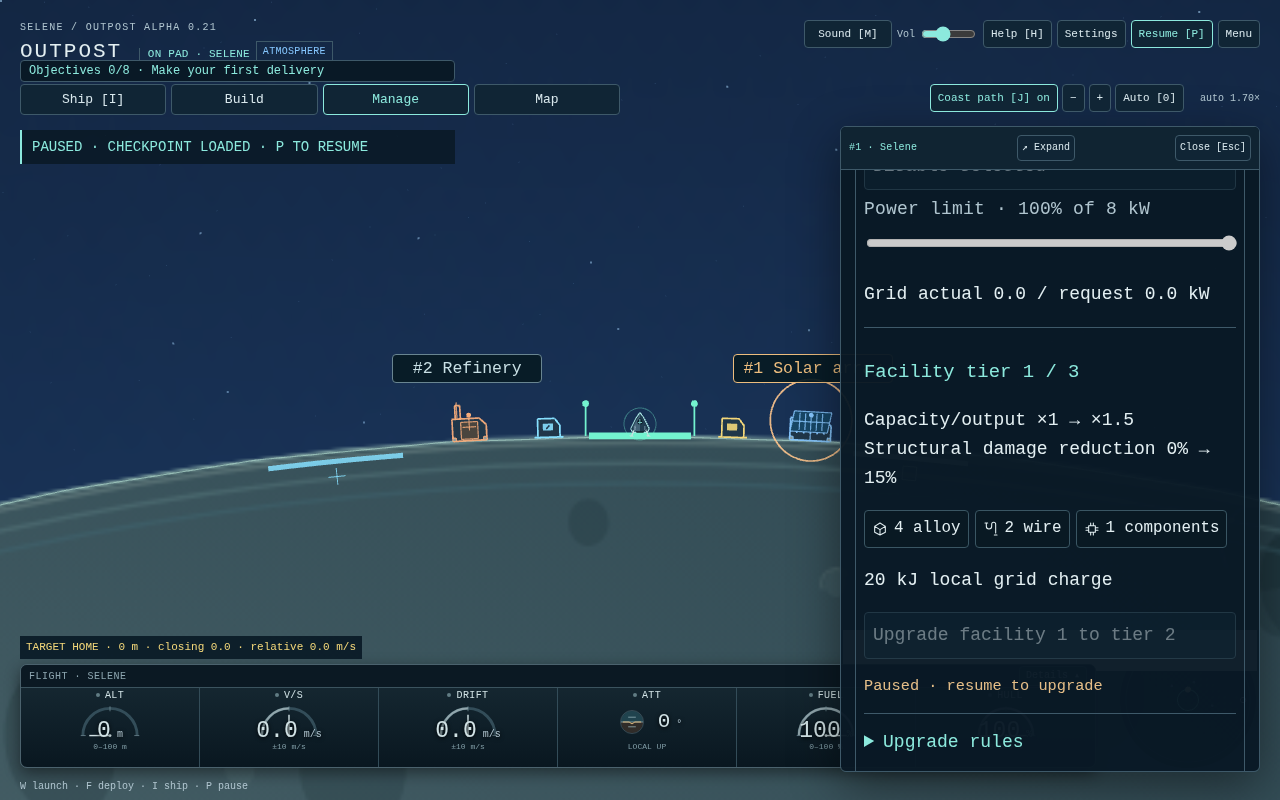
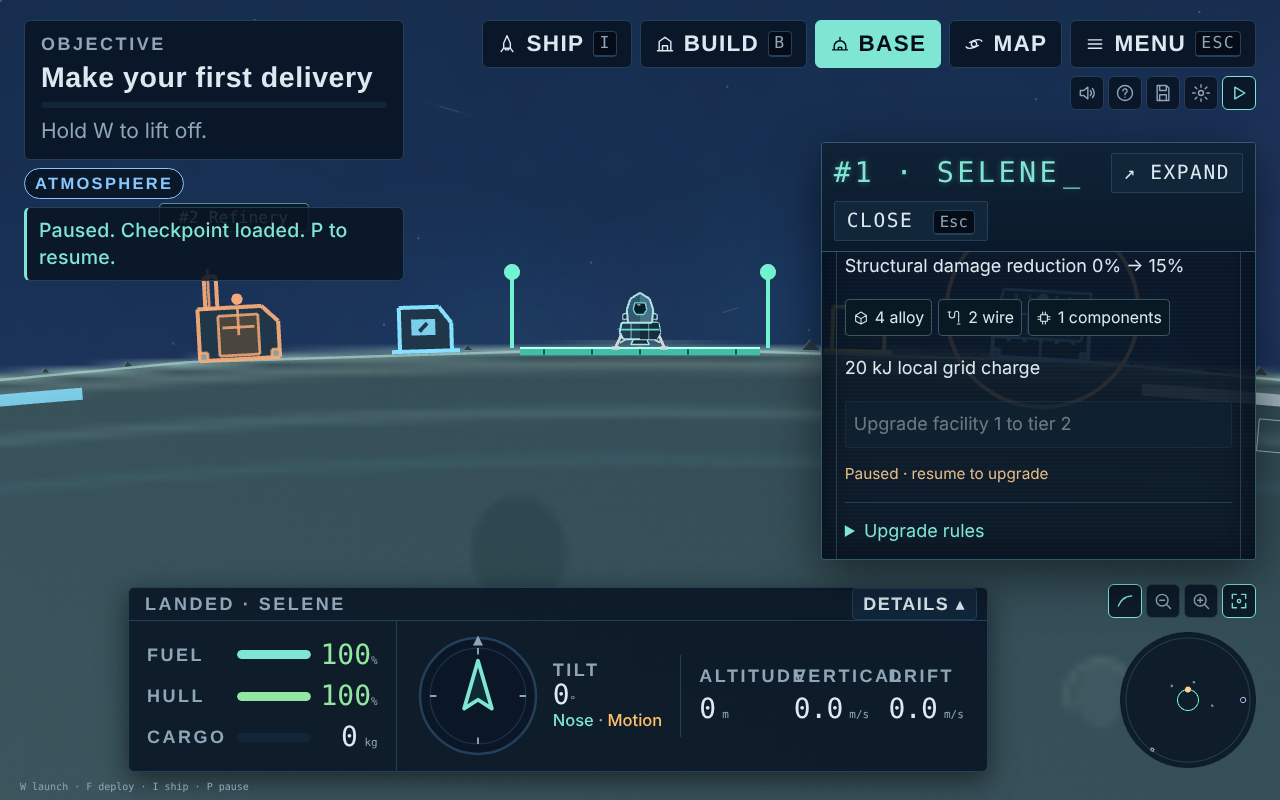
Specs follow the Base sections; narrow windows keep a short title; decisions logged
Claude-Session: https://claude.ai/code/session_01Me37Jarn6EfXptJTunjMTS

diff --git a/tests/browser/workspace.spec.ts b/tests/browser/workspace.spec.ts
@@ -7,7 +7,7 @@ import {TECH_IDS,TECHNOLOGIES,UPGRADE_IDS,UPGRADES,PART_SLOTS} from '../../src/s
 const advance=async(p:Page,ms:number)=>{for(let t=0;t<ms;t+=100)await p.clock.fastForward(Math.min(100,ms-t));};
 
 test('shows a connected tree and selected-only details, supports native keyboard inspection and leaves paused resources untouched',async({page})=>{
- test.setTimeout(90000);const w=createWorld();w.asteroids=[];const initial=encodeCheckpoint(w);await page.addInitScript(text=>localStorage.setItem('outpost.checkpoint.v1',text),initial);await page.goto('/');await page.getByRole('button',{name:'Base',exact:true}).click();const dock=page.locator('#operations-dock');await expect(dock).toHaveAttribute('data-expanded','true');const box=await dock.boundingBox();expect(box!.width).toBeGreaterThan(1000);await page.getByRole('button',{name:'Research',exact:true}).click();await expect(page.locator('.tech-node')).toHaveCount(TECH_IDS.length);await expect(page.locator('.tree-connections path')).toHaveCount(TECH_IDS.reduce((n,id)=>n+TECHNOLOGIES[id].requires.length,0));await expect(page.locator('[data-tech-detail]')).toHaveCount(1);await expect(page.locator('.equipment-panel')).toBeHidden();
+ test.setTimeout(90000);const w=createWorld();w.asteroids=[];const initial=encodeCheckpoint(w);await page.addInitScript(text=>localStorage.setItem('outpost.checkpoint.v1',text),initial);await page.goto('/');await page.getByRole('button',{name:'Base',exact:true}).click();const dock=page.locator('#operations-dock');await expect(dock).toHaveAttribute('data-expanded','true');const box=await dock.boundingBox();expect(box!.width).toBeGreaterThan(1000);await page.locator('button[data-page="research"]').click();await expect(page.locator('.tech-node')).toHaveCount(TECH_IDS.length);await expect(page.locator('.tree-connections path')).toHaveCount(TECH_IDS.reduce((n,id)=>n+TECHNOLOGIES[id].requires.length,0));await expect(page.locator('[data-tech-detail]')).toHaveCount(1);await expect(page.locator('.equipment-panel')).toBeHidden();
  const ion=page.getByRole('button',{name:'Inspect Ion propulsion',exact:true});await ion.focus();await page.keyboard.press('Enter');await expect(page.locator('[data-tech-detail="ionics"]')).toBeVisible();await expect(page.getByRole('button',{name:'Research Ion propulsion',exact:true})).toBeDisabled();await expect(ion).toBeFocused();await page.keyboard.press('ArrowRight');await expect(page.locator('[data-tech="lightweight"]')).toBeFocused();await page.keyboard.press('Enter');await expect(page.locator('[data-tech-detail="lightweight"]')).toBeVisible();
  await page.getByRole('button',{name:'Lightweight hold',exact:true}).click();await expect(page.locator('#command-console')).toHaveAttribute('data-page','equipment');await expect(page.locator('[data-part-detail="lightHold"]')).toBeVisible();await expect(page.getByRole('button',{name:'Build Lightweight hold',exact:true})).toBeDisabled();await page.keyboard.press('k');await expect(page.locator('.status')).toContainText('Game saved');const saved=await page.evaluate(()=>JSON.parse(localStorage.getItem('outpost.checkpoint.v1')!).world);expect(saved.colony.products).toEqual(w.colony.products);expect(saved.ship.equipment).toEqual([]);expect(saved.system.time).toBe(0);
  await page.getByRole('button',{name:'Open settings',exact:true}).click();await page.getByText('Keyboard bindings · click a key to change it',{exact:true}).click();await page.getByRole('button',{name:'Change Pause binding',exact:true}).click();await page.keyboard.press('s');await page.getByRole('button',{name:'Return to game',exact:true}).click();await page.locator('[data-part-focus="lightHold"]').focus();await page.keyboard.press('s');await expect(page.locator('#hud')).toHaveAttribute('data-state','landed');await page.keyboard.press('s');await expect(page.locator('#hud')).toHaveAttribute('data-state','paused');
@@ -16,13 +16,13 @@ test('shows a connected tree and selected-only details, supports native keyboard
 
 test('earns the new ion branch with paid lab work and fits its real drive from the selected inspector',async({page})=>{
  test.setTimeout(120000);const w=createWorld();w.asteroids=[];w.exploration.sites=[];const held=new Set<string>(['ionics','lightweight','industrial','reactor']);for(let grew=true;grew;){grew=false;for(const id of TECH_IDS)if(!held.has(id)&&TECHNOLOGIES[id].requires.some(r=>held.has(r))){held.add(id);grew=true;}}w.colony.research.completed=TECH_IDS.filter(id=>!held.has(id));w.ship.equipment=['engine'];w.ship.hull=60;w.colony.products.alloy=w.colony.products.wire=w.colony.products.components=80;w.colony.energy=20;w.colony.buildings=[completedBuilding(1,'solar',.1,w),completedBuilding(2,'researchLab',.15,w)];w.colony.nextId=3;
- await page.addInitScript(text=>{if(!sessionStorage.getItem('ion-seeded')){localStorage.setItem('outpost.checkpoint.v1',text);sessionStorage.setItem('ion-seeded','1');}},encodeCheckpoint(w));await page.clock.install({time:new Date('2030-01-01')});await page.clock.pauseAt(new Date('2030-01-01T00:00:01Z'));await page.goto('/');await advance(page,500);await page.getByRole('button',{name:'Base',exact:true}).click({force:true});await advance(page,100);await page.getByRole('button',{name:'Research',exact:true}).click({force:true});await page.getByRole('button',{name:'Inspect Ion propulsion',exact:true}).focus();await page.keyboard.press('Enter');await advance(page,100);await expect(page.getByRole('button',{name:'Research Ion propulsion',exact:true})).toBeDisabled();await page.keyboard.press('p');await advance(page,100);await page.getByRole('button',{name:'Research Ion propulsion',exact:true}).focus();await page.keyboard.press('Space');await advance(page,56000);await expect(page.locator('[data-tech="ionics"]')).toHaveAttribute('data-state','complete');await page.getByRole('button',{name:'Ion cruise drive',exact:true}).focus();await page.keyboard.press('Space');await advance(page,100);await expect(page.locator('.part-comparison')).toContainText('0.4 kg/s');await page.getByRole('button',{name:'Replace with Ion cruise drive',exact:true}).focus();await page.keyboard.press('Space');await advance(page,100);await page.keyboard.press('p');await advance(page,100);await page.keyboard.press('k');await advance(page,100);const saved=await page.evaluate(()=>JSON.parse(localStorage.getItem('outpost.checkpoint.v1')!).world);expect(saved.ship.equipment).toEqual(['ionDrive']);expect(saved.ship.fuel).toBe(240);expect(saved.ship.hull).toBe(60);expect(saved.colony.products.alloy).toBeCloseTo(53.4);expect(saved.colony.research.energyUsed).toBeCloseTo(220);
+ await page.addInitScript(text=>{if(!sessionStorage.getItem('ion-seeded')){localStorage.setItem('outpost.checkpoint.v1',text);sessionStorage.setItem('ion-seeded','1');}},encodeCheckpoint(w));await page.clock.install({time:new Date('2030-01-01')});await page.clock.pauseAt(new Date('2030-01-01T00:00:01Z'));await page.goto('/');await advance(page,500);await page.getByRole('button',{name:'Base',exact:true}).click({force:true});await advance(page,100);await page.locator('button[data-page="research"]').click({force:true});await page.getByRole('button',{name:'Inspect Ion propulsion',exact:true}).focus();await page.keyboard.press('Enter');await advance(page,100);await expect(page.getByRole('button',{name:'Research Ion propulsion',exact:true})).toBeDisabled();await page.keyboard.press('p');await advance(page,100);await page.getByRole('button',{name:'Research Ion propulsion',exact:true}).focus();await page.keyboard.press('Space');await advance(page,56000);await expect(page.locator('[data-tech="ionics"]')).toHaveAttribute('data-state','complete');await page.getByRole('button',{name:'Ion cruise drive',exact:true}).focus();await page.keyboard.press('Space');await advance(page,100);await expect(page.locator('.part-comparison')).toContainText('0.4 kg/s');await page.getByRole('button',{name:'Replace with Ion cruise drive',exact:true}).focus();await page.keyboard.press('Space');await advance(page,100);await page.keyboard.press('p');await advance(page,100);await page.keyboard.press('k');await advance(page,100);const saved=await page.evaluate(()=>JSON.parse(localStorage.getItem('outpost.checkpoint.v1')!).world);expect(saved.ship.equipment).toEqual(['ionDrive']);expect(saved.ship.fuel).toBe(240);expect(saved.ship.hull).toBe(60);expect(saved.colony.products.alloy).toBeCloseTo(53.4);expect(saved.colony.research.energyUsed).toBeCloseTo(220);
 });
 
 test('keeps tree navigation and selected fitting comparisons usable at enlarged desktop sizes',async({page})=>{
  test.setTimeout(120000);const w=createWorld();w.asteroids=[];await page.addInitScript(text=>localStorage.setItem('outpost.checkpoint.v1',text),encodeCheckpoint(w));
  for(const [width,height]of [[900,600],[1280,800],[1920,1080]]){
-  await page.setViewportSize({width,height});await page.goto('/');await page.getByRole('button',{name:'Open settings',exact:true}).click();await page.getByLabel('Text size',{exact:true}).selectOption('1.5');await page.getByRole('button',{name:'Return to game',exact:true}).click();await page.getByRole('button',{name:'Base',exact:true}).click();await page.getByRole('button',{name:'Research',exact:true}).click();await page.getByRole('button',{name:'Inspect Ion propulsion',exact:true}).click();await expect(page.locator('[data-tech-detail="ionics"]')).toBeVisible();expect(await page.locator('#operations-dock').evaluate(e=>e.scrollWidth>e.clientWidth+1)).toBe(false);await page.locator('#operations-dock').evaluate(e=>e.scrollTop=0);await expect(page.getByRole('button',{name:'Research Ion propulsion',exact:true})).toBeInViewport({ratio:1});await page.screenshot({path:`docs/screenshots/workspace-research-${width}.png`});
+  await page.setViewportSize({width,height});await page.goto('/');await page.getByRole('button',{name:'Open settings',exact:true}).click();await page.getByLabel('Text size',{exact:true}).selectOption('1.5');await page.getByRole('button',{name:'Return to game',exact:true}).click();await page.getByRole('button',{name:'Base',exact:true}).click();await page.locator('button[data-page="research"]').click();await page.getByRole('button',{name:'Inspect Ion propulsion',exact:true}).click();await expect(page.locator('[data-tech-detail="ionics"]')).toBeVisible();expect(await page.locator('#operations-dock').evaluate(e=>e.scrollWidth>e.clientWidth+1)).toBe(false);await page.locator('#operations-dock').evaluate(e=>e.scrollTop=0);await expect(page.getByRole('button',{name:'Research Ion propulsion',exact:true})).toBeInViewport({ratio:1});await page.screenshot({path:`docs/screenshots/workspace-research-${width}.png`});
   await page.getByRole('button',{name:'Ship fitting',exact:true}).click();await page.locator('[data-part-slot="hold"]').click();await page.locator('[data-part-focus="lightHold"]').click();expect(await page.locator('#operations-dock').evaluate(e=>e.scrollWidth>e.clientWidth+1)).toBe(false);await page.locator('#operations-dock').evaluate(e=>e.scrollTop=0);await expect(page.getByRole('button',{name:'Build Lightweight hold',exact:true})).toBeInViewport({ratio:1});const card=await page.locator('.part-inspector').boundingBox(),footer=await page.locator('.part-inspector .inspector-actions').boundingBox();expect(footer!.x).toBeGreaterThanOrEqual(card!.x);expect(footer!.x+footer!.width).toBeLessThanOrEqual(card!.x+card!.width+1);expect(footer!.y+footer!.height).toBeLessThanOrEqual(card!.y+card!.height+1);await page.screenshot({path:`docs/screenshots/workspace-fitting-${width}.png`});
  }
 });

diff --git a/tests/browser/automation.spec.ts b/tests/browser/automation.spec.ts
@@ -12,7 +12,7 @@ async function seed(page:Page,w:ReturnType<typeof createWorld>){await page.addIn
 
 test('researches and fabricates the paid landing computer, flies a manual approach and completes an ordinary automatic touchdown',async({page})=>{
  test.setTimeout(150000);const w=createWorld();w.asteroids=[];w.exploration.sites=[];w.colony.research.completed=['materials','propulsion'];w.colony.products.alloy=w.colony.products.wire=w.colony.products.components=80;w.colony.buildings=[completedBuilding(1,'solar',.1,w),completedBuilding(2,'researchLab',.2,w)];w.colony.nextId=3;await seed(page,w);
- await page.getByRole('button',{name:'Base',exact:true}).click({force:true});await advance(page,100);await page.getByRole('button',{name:'Research',exact:true}).click({force:true});await advance(page,100);await activate(page,'[data-tech="flightControl"]');await expect(page.getByRole('button',{name:'Research Flight control',exact:true})).toBeDisabled();await tap(page,'p');await activate(page,'[data-research-start="flightControl"]');await advance(page,31000);await expect(page.locator('[data-tech="flightControl"]')).toHaveAttribute('data-state','complete');await activate(page,'[data-unlock-part="landingComputer"]');await activate(page,'[data-equipment="landingComputer"]');await tap(page,'p');await tap(page,'k');const fitted=await page.evaluate(()=>JSON.parse(localStorage.getItem('outpost.checkpoint.v1')!).world);expect(fitted.ship.equipment).toEqual(['landingComputer']);expect(fitted.colony.products).toMatchObject({alloy:67,wire:68,components:75});expect(fitted.colony.research.energyUsed).toBeCloseTo(120);expect(fitted.ship.fuel).toBe(240);
+ await page.getByRole('button',{name:'Base',exact:true}).click({force:true});await advance(page,100);await page.locator('button[data-page="research"]').click({force:true});await advance(page,100);await activate(page,'[data-tech="flightControl"]');await expect(page.getByRole('button',{name:'Research Flight control',exact:true})).toBeDisabled();await tap(page,'p');await activate(page,'[data-research-start="flightControl"]');await advance(page,31000);await expect(page.locator('[data-tech="flightControl"]')).toHaveAttribute('data-state','complete');await activate(page,'[data-unlock-part="landingComputer"]');await activate(page,'[data-equipment="landingComputer"]');await tap(page,'p');await tap(page,'k');const fitted=await page.evaluate(()=>JSON.parse(localStorage.getItem('outpost.checkpoint.v1')!).world);expect(fitted.ship.equipment).toEqual(['landingComputer']);expect(fitted.colony.products).toMatchObject({alloy:67,wire:68,components:75});expect(fitted.colony.research.energyUsed).toBeCloseTo(120);expect(fitted.ship.fuel).toBe(240);
  await tap(page,'Escape');await tap(page,'p');await page.keyboard.down('w');await advance(page,4000);await page.keyboard.up('w');await advance(page,100);await tap(page,'i');await page.locator('[data-panel="autopilot"]').click({force:true});await advance(page,100);await expect(page.locator('[data-autopilot="home"]')).toBeDisabled();await expect(page.locator('[data-autopilot="navigate"]')).toBeDisabled();await expect(page.locator('[data-autopilot="land"]')).toBeEnabled();await activate(page,'[data-autopilot="land"]');await expect(page.locator('#operations-dock')).toBeHidden();await expect(page.locator('.autopilot-disengage')).toBeVisible();await page.screenshot({path:'docs/screenshots/autopilot-landing.png'});await advance(page,40000);await expect(page.locator('#hud')).toHaveAttribute('data-state','landed');await expect(page.locator('.autopilot-disengage')).toBeHidden();await tap(page,'p');await tap(page,'k');const landed=await page.evaluate(()=>JSON.parse(localStorage.getItem('outpost.checkpoint.v1')!).world);expect(landed.autopilot.status).toBe('Touchdown confirmed');expect(landed.ship.hull).toBe(100);expect(landed.ship.fuel).toBeLessThan(240);expect(landed.autopilot.energyUsed).toBeGreaterThan(0);
 });
 

diff --git a/tests/browser/progression.spec.ts b/tests/browser/progression.spec.ts
@@ -11,12 +11,12 @@ test('builds a powered lab, earns research with real work and fabricates cargo e
   await page.keyboard.press('f'); await page.keyboard.down('d'); await expect.poll(async () => Number(await hud.getAttribute('data-surface-angle')) * WORLD.radius, { timeout: 12000, intervals: [100] }).toBeGreaterThan(96);
   await page.keyboard.up('d'); await page.waitForTimeout(450); await page.keyboard.press('b'); await page.keyboard.press('Enter'); await expect(hud).toHaveAttribute('data-buildings', '1');
   await page.keyboard.press('t'); await page.getByRole('navigation',{name:'Building groups',exact:true}).getByRole('button',{name:'Industry & research',exact:true}).click(); await page.locator('[data-select="researchLab"]').click(); await page.keyboard.press('Enter'); await expect(hud).toHaveAttribute('data-buildings', '2'); await page.keyboard.press('b');
-  await page.getByRole('button', { name:'Base', exact: true }).click(); await page.getByRole('button',{name:'Research',exact:true}).click();
+  await page.getByRole('button', { name:'Base', exact: true }).click(); await page.locator('button[data-page="research"]').click();
   const start = page.getByRole('button', { name: 'Research Applied materials', exact: true }); await start.focus(); await page.keyboard.press('Space'); await expect(hud).toHaveAttribute('data-grounded', 'true');
   const progress = console.locator('[data-project="materials"] progress'); await expect.poll(async () => Number(await progress.getAttribute('value')), { timeout: 15000 }).toBeGreaterThan(2);
   await page.keyboard.press('p'); await page.keyboard.press('k'); const save = await page.evaluate(() => JSON.parse(localStorage.getItem('outpost.checkpoint.v1')!));
   expect(save.version).toBe(34); expect(save.world.colony.products.alloy).toBe(14); expect(save.world.colony.research.queue[0].progress).toBeGreaterThan(2); expect(save.world.colony.research.completed).toEqual([]);
-  await page.reload(); await expect(hud).toHaveAttribute('data-state', 'paused'); await page.getByRole('button', { name:'Base', exact: true }).click(); await page.getByRole('button',{name:'Research',exact:true}).click();
+  await page.reload(); await expect(hud).toHaveAttribute('data-state', 'paused'); await page.getByRole('button', { name:'Base', exact: true }).click(); await page.locator('button[data-page="research"]').click();
   await page.keyboard.press('p');await expect(console.locator('[data-project="materials"]')).toHaveCount(0,{timeout:45000});await page.getByLabel('Research view',{exact:true}).selectOption('complete');await expect(console.locator('[data-tech="materials"]')).toHaveAttribute('data-state','complete');
   await expect(console.locator('[data-project="materials"]')).toHaveCount(0); await page.keyboard.press('Escape');
   await page.keyboard.down('a'); await expect.poll(async () => Number(await hud.getAttribute('data-surface-angle')) * WORLD.radius, { timeout: 15000, intervals: [100] }).toBeLessThan(10);

diff --git a/tests/browser/signal.spec.ts b/tests/browser/signal.spec.ts
@@ -47,6 +47,7 @@ test('the beacon can be launched from Base and shows as listening on the Map', a
   await open(page, encodeCheckpoint(staged(false)));
   await page.keyboard.press('p');
   await page.getByRole('button', { name: 'Base', exact: true }).click();
+  await page.locator('[data-base-nav="expedition"]').click();
   await page.locator('[data-beacon]').click();
   await expect(page.locator('[data-signal="waiting"]')).toContainText('Listening');
   await page.keyboard.press('Escape');
@@ -63,6 +64,7 @@ test('when the echo comes back Base and the Map name the far system', async ({ p
   await page.keyboard.press('p');
   await expect(page.locator('.status')).toContainText(/signal came back/i, { timeout: 15000 });
   await page.getByRole('button', { name: 'Base', exact: true }).click();
+  await page.locator('[data-base-nav="expedition"]').click();
   await expect(page.locator('[data-echo]')).toContainText('light-hours');
   await page.screenshot({ path: '/tmp/claude-0/-home-user-outpost-game/69b8c470-1738-5ca3-a382-1afb3ca6b07d/scratchpad/shots/signal-base.png' });
   await page.keyboard.press('Escape');
@@ -79,6 +81,7 @@ test('once the echo is in, an expedition can be packed and sent from Base', asyn
   await open(page, encodeCheckpoint(staged(false, true)));
   await page.keyboard.press('p');
   await page.getByRole('button', { name: 'Base', exact: true }).click();
+  await page.locator('[data-base-nav="expedition"]').click();
   await expect(page.locator('[data-expedition="plan"]')).toContainText('Pack for the hazard');
   await page.getByLabel(/Radiation shielding/).check();
   await expect(page.locator('[data-expedition="plan"]')).toContainText(/odds|Risky/);
@@ -107,6 +110,7 @@ test('trouble on the way waits in Base for a decision', async ({ page }) => {
   await open(page, encodeCheckpoint(w));
   await page.keyboard.press('p');
   await page.getByRole('button', { name: 'Base', exact: true }).click();
+  await page.locator('[data-base-nav="expedition"]').click();
   await expect(page.locator('[data-trouble]')).toContainText('strong radiation');
   await expect(page.locator('[data-choice="shields"]')).toHaveAttribute('data-safe', 'true');
   await page.locator('[data-choice="shields"]').click();

diff --git a/tests/browser/storm.spec.ts b/tests/browser/storm.spec.ts
@@ -69,7 +69,7 @@ test('warns of the storm, survives it with defences, picks up a piece and analys
 
   await page.getByRole('button', { name: 'Base', exact: true }).click();
   await advance(page, 300);
-  await page.getByRole('navigation', { name: 'Base sections' }).getByRole('button', { name: 'Overview' }).click();
+  await page.getByRole('navigation', { name: 'Base sections' }).getByRole('button', { name: 'Research', exact: true }).click();
   await advance(page, 300);
   await page.getByRole('button', { name: 'Analyse a piece' }).click();
   await advance(page, 300);

diff --git a/tests/browser/supply.spec.ts b/tests/browser/supply.spec.ts
@@ -33,6 +33,7 @@ test('supply lines can be set in Base and send a pod by themselves', async ({ pa
   await expect(menu).toBeHidden();
   await page.keyboard.press('p');
   await page.getByRole('button', { name: 'Base', exact: true }).click();
+  await page.locator('[data-base-nav="logistics"]').click();
   for (let i = 0; i < 4; i++) await page.getByRole('button', { name: 'Raise Nacre Iron reserve', exact: true }).click();
   await expect(page.locator('[data-reserve-value="moon:iron"]')).toHaveText('40');
   await page.locator('[data-supply-toggle]').click();

diff --git a/src/ui/console.css b/src/ui/console.css
@@ -147,3 +147,6 @@
 @media (prefers-reduced-motion: reduce) {
   #hud #operations-dock .dock-title::after { animation: none; }
 }
+
+/* The narrow windows keep their title short. */
+#hud #operations-dock:is([data-inspection=true], [data-expanded=false]) .dock-title::before { content: none; }

diff --git a/docs/DECISIONS.md b/docs/DECISIONS.md
@@ -375,3 +375,7 @@ The lander can touch down anywhere. The pad stays the easy place (descent 6 m/s,
 
 - **Saving.** Most new games could not be saved: seeds go up to 2^32 − 1 but the save's shape check capped numbers at 10^9 (fixed). The L load key is gone; loading is only from the menu ("Load last save", which asks to confirm mid-game). K or the save button in the top bar is a quick save, and the game autosaves every two minutes of play (not while paused, or with a lost lander or pilot); the timer restarts on load and new game. The previous save is still kept as a fallback.
 - **Machines short of power settle instead of flickering.** A machine that is off only starts when the store holds twice what booting takes (or is 60% full for small stores); losing power while booting stops it and it waits 10 s before trying again; a running machine rides out gaps under 1.5 s without showing "no power", and shuts down after 4 s without power, then waits. In a base wanting 21 kW from 8 kW, status changes over four minutes fell from 1,720 (Observatory) / 519 (refinery) to 1 to 4.
+- **Base window in sections.** The Base window opens on an Overview (needs attention, materials, power, and one line each for research, other bases and the expedition with a button to go there). Research has its own section: what is being researched, finds to study, research that is ready to start, then the full tree. Other bases, pods and supply runs live under Logistics; the signal and expedition under Expedition. Sections appear only once they have something in them.
+- **Buildings can be sorted and handled in bulk.** The Buildings section sorts by position (west to east from the pad), name, type, status or power use, filters by type and by state (needs attention, running, stopped, off), and has a tick box on each row. Ticked buildings can be turned on or off, upgraded or demolished together (demolish asks first).
+- **Map navigation.** The Map opens on the home area around the pad, with Whole system and Focus target views; drag to move, scroll to zoom. Places are grouped into your bases, worlds, ore clusters and other.
+- **Console look.** Base, Map and the menus are styled as the outpost's own computer: mono headings with a prompt mark, a title bar reading "OUTPOST:// BASE" with a blinking cursor (steady with reduced motion), faint scanlines, square corners and corner brackets on menus. Decorative marks are hidden from screen readers.
